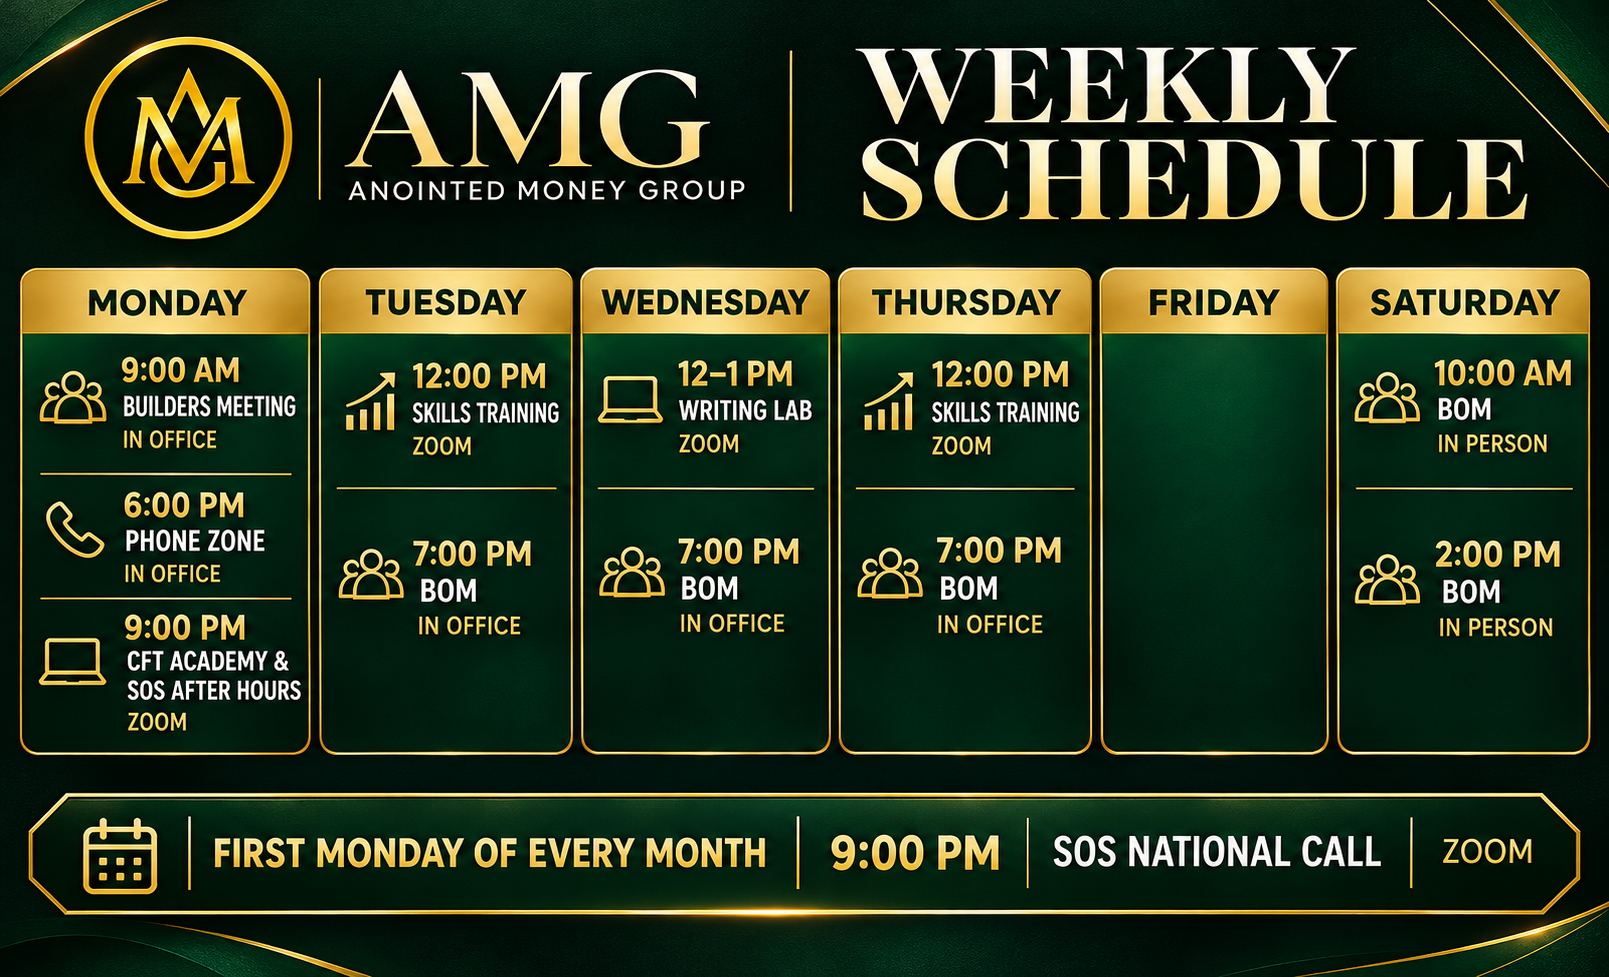
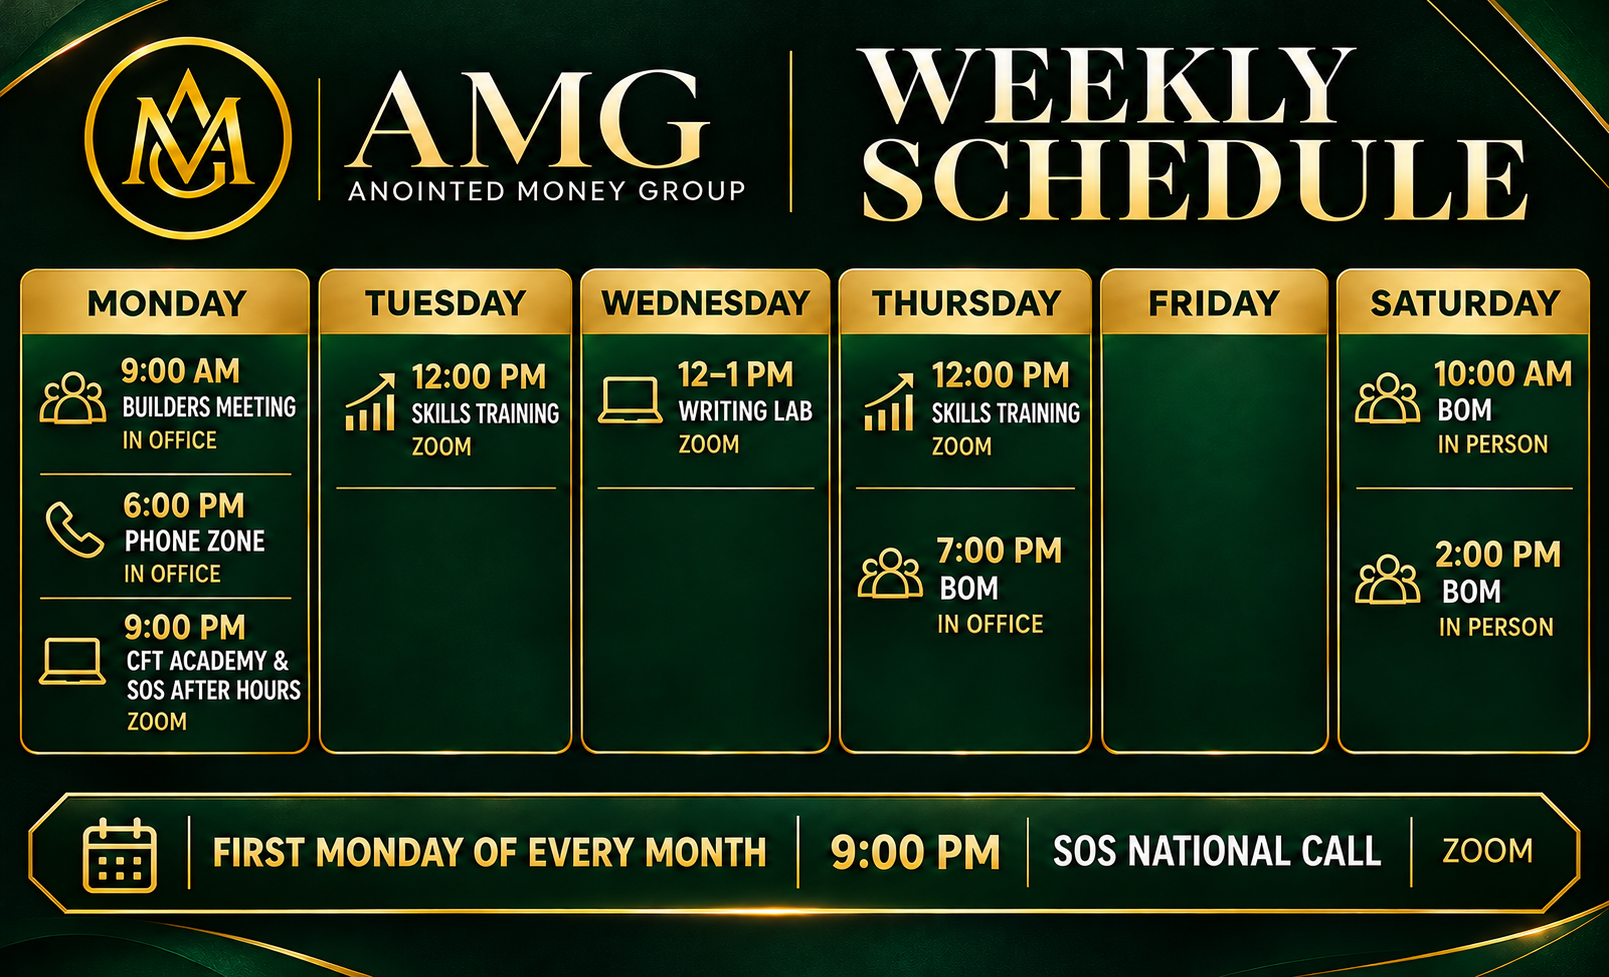
Limit weekly flyer BOM meetings to Thursday and Saturday

diff --git a/index.html b/index.html
@@ -1083,7 +1083,7 @@ body>footer{background:#050807;color:var(--cream);padding:4.5rem 6vw 2.5rem}
           <button type="button" class="spot-bar" data-bar aria-label="Show Ladies’ trip · Las Vegas" tabindex="-1"><span></span></button>
         </div>
         <article class="spotlight-slide" id="ss-weekly" data-slide data-title="Weekly schedule">
-          <div class="spotlight-media" role="group" tabindex="0" aria-label="Weekly schedule banner. Use the left and right arrow keys to change banners."><div class="scene scene-week"><svg class="wk-lines lp" viewBox="0 0 1600 900" preserveAspectRatio="none" aria-hidden="true"><defs><linearGradient id="wkgold" x1="0" y1="0" x2="1" y2="1"><stop offset="0" stop-color="#e8c766" stop-opacity="0"/><stop offset=".5" stop-color="#e8c766" stop-opacity=".55"/><stop offset="1" stop-color="#e8c766" stop-opacity="0"/></linearGradient></defs><path d="M-200 900 C 100 600 300 300 700 -50"/><path d="M60 900 C 360 600 560 300 960 -50"/><path d="M320 900 C 620 600 820 300 1220 -50"/><path d="M580 900 C 880 600 1080 300 1480 -50"/><path d="M840 900 C 1140 600 1340 300 1740 -50"/><path d="M1100 900 C 1400 600 1600 300 2000 -50"/><path d="M1360 900 C 1660 600 1860 300 2260 -50"/></svg><div class="wk-head"><span class="wk-logo"><img src="assets/logo-mark.webp" alt=""></span><span class="wk-brand"><b>AMG</b><small>Anointed Money Group</small></span><p class="wk-title"><span class="w">Weekly</span><span class="w">Schedule</span></p><p class="wk-next" data-wk-next><span class="wk-next-label lp">Next up</span><span class="wk-next-track"><span class="wk-next-item" data-wk-next-item>Monday 9:00 AM · Builders Meeting</span></span></p></div><div class="wk-chips" role="group" aria-label="Choose a day"><button type="button" class="wk-chip" data-wk-chip="1" aria-pressed="false">Mon</button><button type="button" class="wk-chip" data-wk-chip="2" aria-pressed="false">Tue</button><button type="button" class="wk-chip" data-wk-chip="3" aria-pressed="false">Wed</button><button type="button" class="wk-chip" data-wk-chip="4" aria-pressed="false">Thu</button><button type="button" class="wk-chip" data-wk-chip="5" aria-pressed="false">Fri</button><button type="button" class="wk-chip" data-wk-chip="6" aria-pressed="false">Sat</button></div><ol class="wk-days"><li class="wk-day" data-dow="1" style="--i:0"><p class="wk-dname">Monday</p><ul class="wk-evs"><li class="wk-ev" data-dow="1" data-start="09:00" data-label="9:00 AM" data-name="Builders Meeting" data-place="In office" style="--j:0"><svg viewBox="0 0 24 24" aria-hidden="true"><circle cx="12" cy="8" r="3"/><circle cx="5.5" cy="10" r="2.2"/><circle cx="18.5" cy="10" r="2.2"/><path d="M6.5 19a5.5 5.5 0 0111 0M1.8 18a3.8 3.8 0 015-3.4M22.2 18a3.8 3.8 0 00-5-3.4"/></svg><span><span class="t">9:00 AM</span><span class="n">Builders Meeting</span><span class="p">In office</span></span></li><li class="wk-ev" data-dow="1" data-start="18:00" data-label="6:00 PM" data-name="Phone Zone" data-place="In office" style="--j:1"><svg viewBox="0 0 24 24" aria-hidden="true"><path d="M5 4h4l2 5-2.5 1.5a11 11 0 005 5L15 13l5 2v4a2 2 0 01-2 2A16 16 0 013 6a2 2 0 012-2z"/></svg><span><span class="t">6:00 PM</span><span class="n">Phone Zone</span><span class="p">In office</span></span></li><li class="wk-ev" data-dow="1" data-start="21:00" data-label="9:00 PM" data-name="CFT Academy & SOS After Hours" data-place="Zoom" style="--j:2"><svg viewBox="0 0 24 24" aria-hidden="true"><rect x="4" y="5" width="16" height="10" rx="1.5"/><path d="M2 19h20"/></svg><span><span class="t">9:00 PM</span><span class="n">CFT Academy &amp; SOS After Hours</span><span class="p">Zoom</span></span></li></ul></li><li class="wk-day" data-dow="2" style="--i:1"><p class="wk-dname">Tuesday</p><ul class="wk-evs"><li class="wk-ev" data-dow="2" data-start="12:00" data-label="12:00 PM" data-name="Skills Training" data-place="Zoom" style="--j:0"><svg viewBox="0 0 24 24" aria-hidden="true"><path d="M4 20v-4M9 20v-7M14 20v-5M19 20V9M4 12l5-5 4 3 7-6M16 4h4v4"/></svg><span><span class="t">12:00 PM</span><span class="n">Skills Training</span><span class="p">Zoom</span></span></li><li class="wk-ev" data-dow="2" data-start="19:00" data-label="7:00 PM" data-name="BOM" data-place="In office" style="--j:1"><svg viewBox="0 0 24 24" aria-hidden="true"><circle cx="12" cy="8" r="3"/><circle cx="5.5" cy="10" r="2.2"/><circle cx="18.5" cy="10" r="2.2"/><path d="M6.5 19a5.5 5.5 0 0111 0M1.8 18a3.8 3.8 0 015-3.4M22.2 18a3.8 3.8 0 00-5-3.4"/></svg><span><span class="t">7:00 PM</span><span class="n"><abbr title="Business Opportunity Meeting">BOM</abbr></span><span class="p">In office</span></span></li></ul></li><li class="wk-day" data-dow="3" style="--i:2"><p class="wk-dname">Wednesday</p><ul class="wk-evs"><li class="wk-ev" data-dow="3" data-start="12:00" data-label="12–1 PM" data-name="Writing Lab" data-place="Zoom" style="--j:0"><svg viewBox="0 0 24 24" aria-hidden="true"><rect x="4" y="5" width="16" height="10" rx="1.5"/><path d="M2 19h20"/></svg><span><span class="t">12–1 PM</span><span class="n">Writing Lab</span><span class="p">Zoom</span></span></li><li class="wk-ev" data-dow="3" data-start="19:00" data-label="7:00 PM" data-name="BOM" data-place="In office" style="--j:1"><svg viewBox="0 0 24 24" aria-hidden="true"><circle cx="12" cy="8" r="3"/><circle cx="5.5" cy="10" r="2.2"/><circle cx="18.5" cy="10" r="2.2"/><path d="M6.5 19a5.5 5.5 0 0111 0M1.8 18a3.8 3.8 0 015-3.4M22.2 18a3.8 3.8 0 00-5-3.4"/></svg><span><span class="t">7:00 PM</span><span class="n"><abbr title="Business Opportunity Meeting">BOM</abbr></span><span class="p">In office</span></span></li></ul></li><li class="wk-day" data-dow="4" style="--i:3"><p class="wk-dname">Thursday</p><ul class="wk-evs"><li class="wk-ev" data-dow="4" data-start="12:00" data-label="12:00 PM" data-name="Skills Training" data-place="Zoom" style="--j:0"><svg viewBox="0 0 24 24" aria-hidden="true"><path d="M4 20v-4M9 20v-7M14 20v-5M19 20V9M4 12l5-5 4 3 7-6M16 4h4v4"/></svg><span><span class="t">12:00 PM</span><span class="n">Skills Training</span><span class="p">Zoom</span></span></li><li class="wk-ev" data-dow="4" data-start="19:00" data-label="7:00 PM" data-name="BOM" data-place="In office" style="--j:1"><svg viewBox="0 0 24 24" aria-hidden="true"><circle cx="12" cy="8" r="3"/><circle cx="5.5" cy="10" r="2.2"/><circle cx="18.5" cy="10" r="2.2"/><path d="M6.5 19a5.5 5.5 0 0111 0M1.8 18a3.8 3.8 0 015-3.4M22.2 18a3.8 3.8 0 00-5-3.4"/></svg><span><span class="t">7:00 PM</span><span class="n"><abbr title="Business Opportunity Meeting">BOM</abbr></span><span class="p">In office</span></span></li></ul></li><li class="wk-day" data-dow="5" style="--i:4"><p class="wk-dname">Friday</p><ul class="wk-evs"><li class="wk-none">No meetings</li></ul></li><li class="wk-day" data-dow="6" style="--i:5"><p class="wk-dname">Saturday</p><ul class="wk-evs"><li class="wk-ev" data-dow="6" data-start="10:00" data-label="10:00 AM" data-name="BOM" data-place="In person" style="--j:0"><svg viewBox="0 0 24 24" aria-hidden="true"><circle cx="12" cy="8" r="3"/><circle cx="5.5" cy="10" r="2.2"/><circle cx="18.5" cy="10" r="2.2"/><path d="M6.5 19a5.5 5.5 0 0111 0M1.8 18a3.8 3.8 0 015-3.4M22.2 18a3.8 3.8 0 00-5-3.4"/></svg><span><span class="t">10:00 AM</span><span class="n"><abbr title="Business Opportunity Meeting">BOM</abbr></span><span class="p">In person</span></span></li><li class="wk-ev" data-dow="6" data-start="14:00" data-label="2:00 PM" data-name="BOM" data-place="In person" style="--j:1"><svg viewBox="0 0 24 24" aria-hidden="true"><circle cx="12" cy="8" r="3"/><circle cx="5.5" cy="10" r="2.2"/><circle cx="18.5" cy="10" r="2.2"/><path d="M6.5 19a5.5 5.5 0 0111 0M1.8 18a3.8 3.8 0 015-3.4M22.2 18a3.8 3.8 0 00-5-3.4"/></svg><span><span class="t">2:00 PM</span><span class="n"><abbr title="Business Opportunity Meeting">BOM</abbr></span><span class="p">In person</span></span></li></ul></li></ol><div class="wk-foot"><svg viewBox="0 0 24 24" aria-hidden="true"><rect x="3.5" y="5" width="17" height="15" rx="2.5"/><path d="M3.5 10h17M8 3v4M16 3v4M8 14h.01M12 14h.01M16 14h.01M8 17h.01M12 17h.01"/></svg><span>First Monday of every month</span><i class="sep"></i><b>9:00 PM</b><i class="sep"></i><span>SOS National Call</span><i class="sep"></i><span class="z">Zoom</span><span class="wk-foot-next" data-wk-monthly></span></div></div><button type="button" class="spot-zoom" data-enlarge aria-label="Enlarge the weekly schedule flyer"><svg viewBox="0 0 24 24" aria-hidden="true"><circle cx="10.5" cy="10.5" r="6.5"/><path d="M15.5 15.5L20 20M10.5 7.5v6M7.5 10.5h6"/></svg><span>Enlarge</span></button></div>
+          <div class="spotlight-media" role="group" tabindex="0" aria-label="Weekly schedule banner. Use the left and right arrow keys to change banners."><div class="scene scene-week"><svg class="wk-lines lp" viewBox="0 0 1600 900" preserveAspectRatio="none" aria-hidden="true"><defs><linearGradient id="wkgold" x1="0" y1="0" x2="1" y2="1"><stop offset="0" stop-color="#e8c766" stop-opacity="0"/><stop offset=".5" stop-color="#e8c766" stop-opacity=".55"/><stop offset="1" stop-color="#e8c766" stop-opacity="0"/></linearGradient></defs><path d="M-200 900 C 100 600 300 300 700 -50"/><path d="M60 900 C 360 600 560 300 960 -50"/><path d="M320 900 C 620 600 820 300 1220 -50"/><path d="M580 900 C 880 600 1080 300 1480 -50"/><path d="M840 900 C 1140 600 1340 300 1740 -50"/><path d="M1100 900 C 1400 600 1600 300 2000 -50"/><path d="M1360 900 C 1660 600 1860 300 2260 -50"/></svg><div class="wk-head"><span class="wk-logo"><img src="assets/logo-mark.webp" alt=""></span><span class="wk-brand"><b>AMG</b><small>Anointed Money Group</small></span><p class="wk-title"><span class="w">Weekly</span><span class="w">Schedule</span></p><p class="wk-next" data-wk-next><span class="wk-next-label lp">Next up</span><span class="wk-next-track"><span class="wk-next-item" data-wk-next-item>Monday 9:00 AM · Builders Meeting</span></span></p></div><div class="wk-chips" role="group" aria-label="Choose a day"><button type="button" class="wk-chip" data-wk-chip="1" aria-pressed="false">Mon</button><button type="button" class="wk-chip" data-wk-chip="2" aria-pressed="false">Tue</button><button type="button" class="wk-chip" data-wk-chip="3" aria-pressed="false">Wed</button><button type="button" class="wk-chip" data-wk-chip="4" aria-pressed="false">Thu</button><button type="button" class="wk-chip" data-wk-chip="5" aria-pressed="false">Fri</button><button type="button" class="wk-chip" data-wk-chip="6" aria-pressed="false">Sat</button></div><ol class="wk-days"><li class="wk-day" data-dow="1" style="--i:0"><p class="wk-dname">Monday</p><ul class="wk-evs"><li class="wk-ev" data-dow="1" data-start="09:00" data-label="9:00 AM" data-name="Builders Meeting" data-place="In office" style="--j:0"><svg viewBox="0 0 24 24" aria-hidden="true"><circle cx="12" cy="8" r="3"/><circle cx="5.5" cy="10" r="2.2"/><circle cx="18.5" cy="10" r="2.2"/><path d="M6.5 19a5.5 5.5 0 0111 0M1.8 18a3.8 3.8 0 015-3.4M22.2 18a3.8 3.8 0 00-5-3.4"/></svg><span><span class="t">9:00 AM</span><span class="n">Builders Meeting</span><span class="p">In office</span></span></li><li class="wk-ev" data-dow="1" data-start="18:00" data-label="6:00 PM" data-name="Phone Zone" data-place="In office" style="--j:1"><svg viewBox="0 0 24 24" aria-hidden="true"><path d="M5 4h4l2 5-2.5 1.5a11 11 0 005 5L15 13l5 2v4a2 2 0 01-2 2A16 16 0 013 6a2 2 0 012-2z"/></svg><span><span class="t">6:00 PM</span><span class="n">Phone Zone</span><span class="p">In office</span></span></li><li class="wk-ev" data-dow="1" data-start="21:00" data-label="9:00 PM" data-name="CFT Academy & SOS After Hours" data-place="Zoom" style="--j:2"><svg viewBox="0 0 24 24" aria-hidden="true"><rect x="4" y="5" width="16" height="10" rx="1.5"/><path d="M2 19h20"/></svg><span><span class="t">9:00 PM</span><span class="n">CFT Academy &amp; SOS After Hours</span><span class="p">Zoom</span></span></li></ul></li><li class="wk-day" data-dow="2" style="--i:1"><p class="wk-dname">Tuesday</p><ul class="wk-evs"><li class="wk-ev" data-dow="2" data-start="12:00" data-label="12:00 PM" data-name="Skills Training" data-place="Zoom" style="--j:0"><svg viewBox="0 0 24 24" aria-hidden="true"><path d="M4 20v-4M9 20v-7M14 20v-5M19 20V9M4 12l5-5 4 3 7-6M16 4h4v4"/></svg><span><span class="t">12:00 PM</span><span class="n">Skills Training</span><span class="p">Zoom</span></span></li></ul></li><li class="wk-day" data-dow="3" style="--i:2"><p class="wk-dname">Wednesday</p><ul class="wk-evs"><li class="wk-ev" data-dow="3" data-start="12:00" data-label="12–1 PM" data-name="Writing Lab" data-place="Zoom" style="--j:0"><svg viewBox="0 0 24 24" aria-hidden="true"><rect x="4" y="5" width="16" height="10" rx="1.5"/><path d="M2 19h20"/></svg><span><span class="t">12–1 PM</span><span class="n">Writing Lab</span><span class="p">Zoom</span></span></li></ul></li><li class="wk-day" data-dow="4" style="--i:3"><p class="wk-dname">Thursday</p><ul class="wk-evs"><li class="wk-ev" data-dow="4" data-start="12:00" data-label="12:00 PM" data-name="Skills Training" data-place="Zoom" style="--j:0"><svg viewBox="0 0 24 24" aria-hidden="true"><path d="M4 20v-4M9 20v-7M14 20v-5M19 20V9M4 12l5-5 4 3 7-6M16 4h4v4"/></svg><span><span class="t">12:00 PM</span><span class="n">Skills Training</span><span class="p">Zoom</span></span></li><li class="wk-ev" data-dow="4" data-start="19:00" data-label="7:00 PM" data-name="BOM" data-place="In office" style="--j:1"><svg viewBox="0 0 24 24" aria-hidden="true"><circle cx="12" cy="8" r="3"/><circle cx="5.5" cy="10" r="2.2"/><circle cx="18.5" cy="10" r="2.2"/><path d="M6.5 19a5.5 5.5 0 0111 0M1.8 18a3.8 3.8 0 015-3.4M22.2 18a3.8 3.8 0 00-5-3.4"/></svg><span><span class="t">7:00 PM</span><span class="n"><abbr title="Business Opportunity Meeting">BOM</abbr></span><span class="p">In office</span></span></li></ul></li><li class="wk-day" data-dow="5" style="--i:4"><p class="wk-dname">Friday</p><ul class="wk-evs"><li class="wk-none">No meetings</li></ul></li><li class="wk-day" data-dow="6" style="--i:5"><p class="wk-dname">Saturday</p><ul class="wk-evs"><li class="wk-ev" data-dow="6" data-start="10:00" data-label="10:00 AM" data-name="BOM" data-place="In person" style="--j:0"><svg viewBox="0 0 24 24" aria-hidden="true"><circle cx="12" cy="8" r="3"/><circle cx="5.5" cy="10" r="2.2"/><circle cx="18.5" cy="10" r="2.2"/><path d="M6.5 19a5.5 5.5 0 0111 0M1.8 18a3.8 3.8 0 015-3.4M22.2 18a3.8 3.8 0 00-5-3.4"/></svg><span><span class="t">10:00 AM</span><span class="n"><abbr title="Business Opportunity Meeting">BOM</abbr></span><span class="p">In person</span></span></li><li class="wk-ev" data-dow="6" data-start="14:00" data-label="2:00 PM" data-name="BOM" data-place="In person" style="--j:1"><svg viewBox="0 0 24 24" aria-hidden="true"><circle cx="12" cy="8" r="3"/><circle cx="5.5" cy="10" r="2.2"/><circle cx="18.5" cy="10" r="2.2"/><path d="M6.5 19a5.5 5.5 0 0111 0M1.8 18a3.8 3.8 0 015-3.4M22.2 18a3.8 3.8 0 00-5-3.4"/></svg><span><span class="t">2:00 PM</span><span class="n"><abbr title="Business Opportunity Meeting">BOM</abbr></span><span class="p">In person</span></span></li></ul></li></ol><div class="wk-foot"><svg viewBox="0 0 24 24" aria-hidden="true"><rect x="3.5" y="5" width="17" height="15" rx="2.5"/><path d="M3.5 10h17M8 3v4M16 3v4M8 14h.01M12 14h.01M16 14h.01M8 17h.01M12 17h.01"/></svg><span>First Monday of every month</span><i class="sep"></i><b>9:00 PM</b><i class="sep"></i><span>SOS National Call</span><i class="sep"></i><span class="z">Zoom</span><span class="wk-foot-next" data-wk-monthly></span></div></div><button type="button" class="spot-zoom" data-enlarge aria-label="Enlarge the weekly schedule flyer"><svg viewBox="0 0 24 24" aria-hidden="true"><circle cx="10.5" cy="10.5" r="6.5"/><path d="M15.5 15.5L20 20M10.5 7.5v6M7.5 10.5h6"/></svg><span>Enlarge</span></button></div>
           <div class="spotlight-caption"><div><div class="spot-chips"><span class="chip"><svg viewBox="0 0 24 24" aria-hidden="true"><path d="M4 19V6a2 2 0 012-2h13v13H6a2 2 0 00-2 2zm0 0a2 2 0 002 2h13"/></svg>Training</span><span class="chip"><svg viewBox="0 0 24 24" aria-hidden="true"><rect x="3.5" y="5" width="17" height="15" rx="2.5"/><path d="M3.5 10h17M8 3v4M16 3v4"/></svg>Monday – Saturday</span></div><h3>Weekly schedule</h3><p>Your week of training, meetings, and team calls.</p></div><a class="pill pill-solid" data-view data-alt="AMG weekly schedule of training, meetings, and team calls from Monday through Saturday" href="assets/resources/amg-weekly-schedule.png" target="_blank" rel="noopener">View full schedule</a></div>
         </article>
         <article class="spotlight-slide" id="ss-tokyo" data-slide data-title="World trip · Tokyo, Japan" hidden>

diff --git a/docs/design/amg-weekly-schedule-prompt.md b/docs/design/amg-weekly-schedule-prompt.md
@@ -17,10 +17,8 @@ MONDAY
 "9:00 PM" / "CFT ACADEMY &" / "SOS AFTER HOURS" / "ZOOM"
 TUESDAY
 "12:00 PM" / "SKILLS TRAINING" / "ZOOM"
-"7:00 PM" / "BOM" / "IN OFFICE"
 WEDNESDAY
 "12–1 PM" / "WRITING LAB" / "ZOOM"
-"7:00 PM" / "BOM" / "IN OFFICE"
 THURSDAY
 "12:00 PM" / "SKILLS TRAINING" / "ZOOM"
 "7:00 PM" / "BOM" / "IN OFFICE"
@@ -29,4 +27,10 @@ SATURDAY
 "10:00 AM" / "BOM" / "IN PERSON"
 "2:00 PM" / "BOM" / "IN PERSON"
 Bottom notice: "FIRST MONDAY OF EVERY MONTH" / "9:00 PM" / "SOS NATIONAL CALL" / "ZOOM"
-Important: SOS is removed as the flyer branding, but retain SOS in the two actual event names SOS AFTER HOURS and SOS NATIONAL CALL, as those are part of the source schedule. Do not add timezone, dates, URLs, contact details or anything not listed. All six days and all eleven regular events plus the monthly call must be present and accurate.
+Important: SOS is removed as the flyer branding, but retain SOS in the two actual event names SOS AFTER HOURS and SOS NATIONAL CALL, as those are part of the source schedule. Do not add timezone, dates, URLs, contact details or anything not listed. All six days and all nine regular events plus the monthly call must be present and accurate.
+
+## Schedule correction (2026-11-07)
+
+The user requested BOM only on Thursday and Saturday. Removed Tuesday and Wednesday 7:00 PM BOM from the on-page schedule and edited the existing PNG with the built-in image generation tool. All other meetings, branding, and layout are preserved.
+
+Edit prompt: Remove only the Tuesday and Wednesday 7:00 PM BOM IN OFFICE events and their people icons. Fill those areas with the matching dark green background. Preserve all other text, events, logo, typography, borders, and layout, including Thursday 7:00 PM and Saturday 10:00 AM and 2:00 PM BOM.
